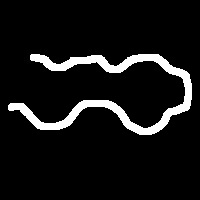
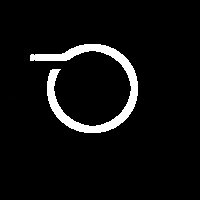
set a param

Changed region(s): [[0.03, 0.21, 0.96, 0.69]]

diff --git a/director.py b/director.py
@@ -8,15 +8,15 @@ import random
 
 def run():
 
-    agent = Agent(number_of_actions=3, Q={(1.0, 1.0): [1, 0, 0.],
-                                          (1.0, 2.0): [0, 1, 0.],
-                                          (0.0, 1.0): [0, 1, 0.],
-                                          (0.0, 2.0): [0, 1, 0.],
-                                          (1.0, 0.0): [0, 0, 1.],
-                                          (0.0, 0.0): [1, 0, 0.],
-                                          (2.0, 2.0): [1, 0, 0.],
-                                          (2.0, 0.0): [0, 0, 1.],
-                                          (2.0, 1.0): [0, 0, 1.],
+    agent = Agent(number_of_actions=3, Q={(1.0, 1.0): [1, 0, 0],
+                                          (1.0, 2.0): [0, 1, 0],
+                                          (0.0, 1.0): [0, 1, 0],
+                                          (0.0, 2.0): [0, 1, 0],
+                                          (1.0, 0.0): [0, 0, 1],
+                                          (0.0, 0.0): [1, 0, 0],
+                                          (2.0, 2.0): [1, 0, 0],
+                                          (2.0, 0.0): [0, 0, 1],
+                                          (2.0, 1.0): [0, 0, 1],
 
                                           (0.0, 3.0): [0, 1, 0],
                                           (1.0, 3.0): [0, 1, 0],
@@ -26,10 +26,29 @@ def run():
                                           (3.0, 2.0): [0, 0, 1],
                                           (3.0, 3.0): [1, 0, 0],
                                           })
+    # стратегия смещаться только при сильном отклонении
+    # agent = Agent(number_of_actions=3, Q={(1.0, 1.0): [1, 0, 0],
+    #                                       (1.0, 2.0): [0, 1, 0],
+    #                                       (0.0, 1.0): [1, 0, 0],
+    #                                       (0.0, 2.0): [0, 1, 0],
+    #                                       (1.0, 0.0): [1, 0, 0],
+    #                                       (0.0, 0.0): [1, 0, 0],
+    #                                       (2.0, 2.0): [1, 0, 0],
+    #                                       (2.0, 0.0): [0, 0, 1],
+    #                                       (2.0, 1.0): [0, 0, 1],
+    #
+    #                                       (0.0, 3.0): [0, 1, 0],
+    #                                       (1.0, 3.0): [0, 1, 0],
+    #                                       (2.0, 3.0): [0, 1, 0],
+    #                                       (3.0, 0.0): [0, 0, 1],
+    #                                       (3.0, 1.0): [0, 0, 1],
+    #                                       (3.0, 2.0): [0, 0, 1],
+    #                                       (3.0, 3.0): [1, 0, 0],
+    #                                       })
 
     map = MotionMap()
     # Запустим N действий
-    N = 101
+    N = 1
     show_every_n = 20
     for epoch in range(N):
         start_point = map._start_positions[random.randint(0, len(map._start_positions)-1)]
@@ -37,15 +56,17 @@ def run():
             start_point[0] = 58
             start_point[1] = 34
 
-        start_point[0] += random.randint(-2, 2)
-        start_point[1] += random.randint(-2, 2)
+        #start_point[0] += random.randint(-2, 2)
+        #start_point[1] += random.randint(-2, 2)
 
         env = Environment(start_position=start_point,
                           number_of_last_states=1,
-                          theta=5,
+                          theta=16,
+                          step=2,
                           start_theta=90,
+                          dist_btw_sensors=9,
                           map=map)
-        for i in range(450):
+        for i in range(650):
             agent.process(env.get_states(), env.get_reward(), )
 
             # env.log()
@@ -58,4 +79,6 @@ def run():
         agent.reset_reward()
         if epoch % show_every_n == 0:
             env.show()
-    print(agent.get_params())
+    newQ=agent.get_params()
+    for i in newQ:
+        print(i, ':', newQ[i])

diff --git a/environment.py b/environment.py
@@ -37,10 +37,10 @@ class Environment(Env):
     def __init__(self, map,
                  start_position: 'Вектор столбец. Начальная позиция робота' = (1, 1),
                  start_theta: 'Угол поворота, куда смотрит агент, в градусах' = 0,
-                 step: 'Длина шага'=1,
-                 theta: 'Угол поворота при совершении действия, в градусах'=15,
+                 step: 'Длина шага' = 1,
+                 theta: 'Угол поворота при совершении действия, в градусах' = 15,
                  number_of_last_states: 'Кол-во хранимых состояний датчиков' = 3,
-                 dist_btw_sensors: 'Расстояние между сенсорами'=8
+                 dist_btw_sensors: 'Расстояние между сенсорами' = 10
                  ):
         Environment.epoch += 1
         self._dist_btw_sensors = dist_btw_sensors
@@ -201,8 +201,8 @@ class Environment(Env):
     def _action_t(self):
         """ Движение вперед."""
         d = self._end_point - self._start_point
-        self._start_point += d / 2
-        self._end_point += d / 2
+        self._start_point += d / 1
+        self._end_point += d / 1
 
     def _action2(self):
         """ Поворот по часовой на фиксированный угол и движение по направлению вектора."""

diff --git a/MotionMap.py b/MotionMap.py
@@ -9,7 +9,7 @@ class MotionMap:
     _start_positions = []
     _dist_btw_sensors = None
 
-    def __init__(self, path_to_map: 'Путь до картинки с картой'='maps/map3_1.jpg',
+    def __init__(self, path_to_map: 'Путь до картинки с картой'='maps/circle.jpg',
                  dist_btw_sensors=8):
         _img_map = None  # Картинка, для отображения
         self._dist_btw_sensors = dist_btw_sensors
